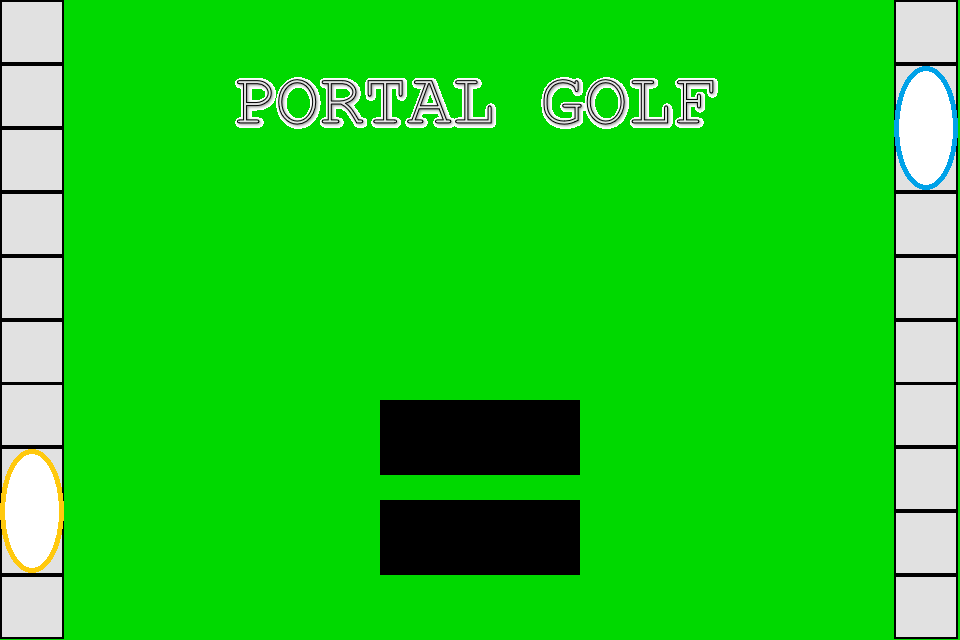
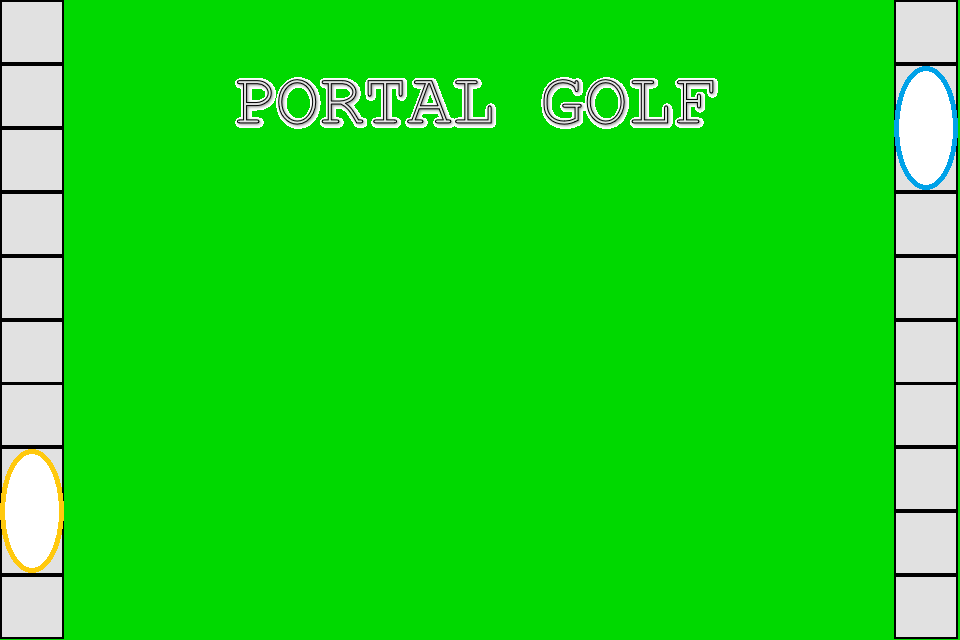
got rid of exposed keys, testing UI

Changed region(s): [[0.375, 0.7812, 0.625, 0.9062], [0.375, 0.625, 0.625, 0.75]]

diff --git a/portal_golf/src/scenes/LeaderboardScene.js b/portal_golf/src/scenes/LeaderboardScene.js
@@ -1,12 +1,12 @@
 import MenuListener from '../handlers/MenuListener.js';
 
-class InstructionsMenuScene extends Phaser.Scene {
+class LeaderboardScene extends Phaser.Scene {
     constructor(){
         super({ key: 'Leaderboard' });
     }
 
     preload(){
-		this.load.json("leaderboard", "https://script.google.com/macros/s/AKfycbyKbsjUJPBh7ij0-qClJwQDGGj2DeQNE3RDQv-pPZ6l26CpYsQS2A6Yz_emv2hmL_lTVg/exec?apiKey=AIzaSyCATNJGxIUKlt01Ps5BKsGPi6BqbTWF3TE");
+
     }
 
     async create(){
@@ -33,10 +33,7 @@ class InstructionsMenuScene extends Phaser.Scene {
 
         let leaderboardText = this.add.text(textx, texty, "Loading...", textStyle);
 
-        try {
-            let response = await fetch("https://script.google.com/macros/s/AKfycbyKbsjUJPBh7ij0-qClJwQDGGj2DeQNE3RDQv-pPZ6l26CpYsQS2A6Yz_emv2hmL_lTVg/exec?apiKey=AIzaSyCATNJGxIUKlt01Ps5BKsGPi6BqbTWF3TE");
-            let scores = await response.json();
-            
+        try {            
             let leaderboardString = scores
                 .slice(0, 10) // Show top 10
                 .map((entry, index) => `${index + 1}. ${entry[0]} - ${entry[1]}`)

diff --git a/portal_golf/src/index.js b/portal_golf/src/index.js
@@ -26,7 +26,7 @@ const config = {
             maxPhysicsSteps: 1, // Max number of physics steps per frame
         }
     },
-	scene: [MenuScene, GameScene, WinScene, InstructionsMenuScene, PauseMenuScene]
+	scene: [MenuScene, GameScene, LeaderboardScene, WinScene, InstructionsMenuScene, PauseMenuScene]
 };
 
 //RUNS THE GAME
